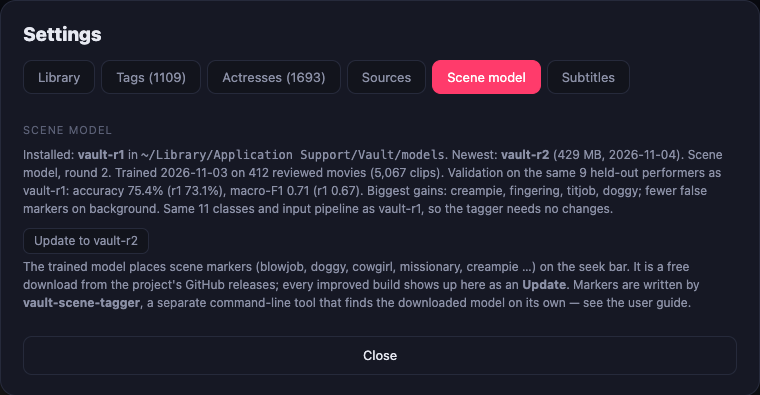
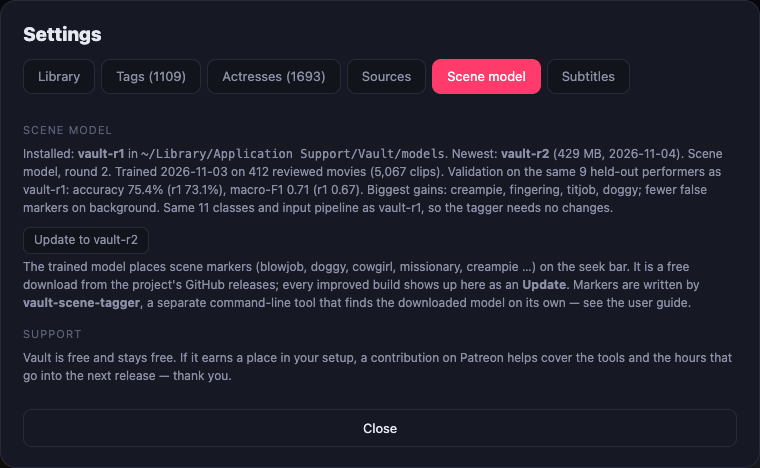
1.8.2: the Patreon link is back
A voluntary Patreon link for anyone who wants to contribute: Settings → Scene
model, the README, the user guide and the website. Vault stays free.

diff --git a/docs/index.html b/docs/index.html
@@ -204,7 +204,7 @@ footer small{flex-basis:100%;font-size:13px;max-width:80ch}
     <ul>
       <li><a href="#features">Features</a></li>
       <li><a href="#model">Scene model</a></li>
-      <li><a href="#free">Free</a></li>
+      <li><a href="#free">Support</a></li>
       <li><a href="#install">Install</a></li>
       <li class="keep"><a class="btn small" href="https://github.com/fc2vault/vault">GitHub</a></li>
     </ul>
@@ -214,12 +214,12 @@ footer small{flex-basis:100%;font-size:13px;max-width:80ch}
 <header class="hero" id="top">
   <div class="wrap hero-grid">
     <div class="hero-copy">
-      <p class="eyebrow">Free &amp; self‑hosted · v1.8.1 · macOS · Windows · Linux</p>
+      <p class="eyebrow">Free &amp; self‑hosted · v1.8.2 · macOS · Windows · Linux</p>
       <h1>Your library,<br>finally <span>browsable.</span></h1>
       <p class="lede">Vault turns a folder of FC2 / JAV movies into a fast, private web app: a poster wall, a streaming player with scene markers on the seek bar and English subtitles made on your own computer, and an actress catalog. <strong>One Python file. No cloud, no accounts, no telemetry. Free, the whole thing.</strong></p>
       <div class="cta">
         <a class="btn primary" href="https://github.com/fc2vault/vault/releases/latest">Download Vault — free</a>
-        <a class="btn" href="https://github.com/fc2vault/vault">Source on GitHub</a>
+        <a class="btn" href="#free">Support the project</a>
         <span class="note">No limit, no key, no sign‑up. The scene model is a free download inside the app.</span>
       </div>
       <div class="strip">
@@ -367,11 +367,11 @@ footer small{flex-basis:100%;font-size:13px;max-width:80ch}
 <section id="free">
   <div class="wrap">
     <div class="sec-head">
-      <p class="eyebrow">Free</p>
-      <h2>Everything is free.</h2>
-      <p class="lede">Vault is a hobby project, developed in the open and given away whole: the app, every source, the catalog, the scene model and the subtitles. There is no paid tier and nothing held back.</p>
+      <p class="eyebrow">Free, and supported by you</p>
+      <h2>Everything is free.<br>Contributions keep it moving.</h2>
+      <p class="lede">Vault is a hobby project, developed in the open and given away whole: the app, every source, the catalog, the scene model and the subtitles. There is no paid tier and nothing held back. If it earns a place in your setup, a contribution helps cover the tools, the GPU hours and the work that go into the next release.</p>
     </div>
-    <div class="support" style="grid-template-columns:1fr">
+    <div class="support">
       <div class="card-free">
         <div><p class="eyebrow">Vault</p><p class="price">$0<small>for everyone, forever</small></p></div>
         <ul>
@@ -387,6 +387,15 @@ footer small{flex-basis:100%;font-size:13px;max-width:80ch}
         </ul>
         <div><a class="btn" href="https://github.com/fc2vault/vault/releases/latest">Download on GitHub</a></div>
         <p class="fine">No sign‑up, no key. The source is on GitHub; the terms are in LICENSE.md.</p>
+      </div>
+      <div class="card-sup">
+        <div><p class="eyebrow">Say thanks</p><p class="price">Patreon<small>any amount, cancel any time</small></p></div>
+        <p><strong>Thank you</strong> to everyone who contributes. Vault keeps being developed either way, but your support is what pays for the parts that are not free to make: the GPU time that trains each model round, the tooling, the metadata sources, and the evenings that go into every release.</p>
+        <div class="sup">
+          <a class="btn primary" href="https://www.patreon.com/FC2vault" rel="noopener"><svg viewBox="0 0 24 24" aria-hidden="true"><path d="M15.4 2.5a6.2 6.2 0 1 1 0 12.4 6.2 6.2 0 0 1 0-12.4zM2.5 2.5h3.1v19H2.5z"/></svg>Support on Patreon</a>
+          <a class="btn" href="https://github.com/fc2vault/vault/issues">Request a feature</a>
+        </div>
+        <p class="fine">Nothing on Patreon is required to use Vault, the scene model or the subtitles.</p>
       </div>
     </div>
   </div>
@@ -476,6 +485,7 @@ python3 serve.py --library "/srv/movies"</pre></div></div>
     </div>
     <div class="faq">
       <details><summary>Is it really all free?</summary><p>Yes. The app, every metadata source, the bundled catalog and the scene model, with no movie limit and no key. The terms are in <code>LICENSE.md</code>: use it, share it, don't sell it.</p></details>
+      <details><summary>What do I get for supporting on Patreon?</summary><p>The same Vault as everyone else, and my thanks. Contributions pay for the GPU time that trains each model round, the tooling and the hours behind every release. Nothing is held back from people who don't contribute.</p></details>
       <details><summary>How does the scene model get onto my machine?</summary><p>Settings → Scene model shows the newest build and a Download button. Vault fetches it from the project's GitHub releases into a per‑user folder, and vault‑scene‑tagger finds it there on its own. When a new round ships, the same tab offers the update.</p></details>
       <details><summary>Does the scene model need a GPU?</summary><p>Tagging runs on Apple Silicon (MPS) at roughly 3× realtime, or much faster on any NVIDIA GPU. Viewing markers in the player needs nothing special. The model runs entirely on your machine.</p></details>
       <details><summary>Which sources does it use for metadata?</summary><p>fc2db.net, 123av and ffjav work out of the box. fc2ppv‑db, which supplies the cast and faces, sits behind a Cloudflare check, so it needs a pasted browser session or a FlareSolverr instance on your LAN.</p></details>
@@ -493,6 +503,7 @@ python3 serve.py --library "/srv/movies"</pre></div></div>
       <li><a href="https://github.com/fc2vault/vault/blob/main/README.md">README</a></li>
       <li><a href="https://github.com/fc2vault/vault/blob/main/CHANGELOG.md">Changelog</a></li>
       <li><a href="https://github.com/fc2vault/vault/issues">Issues</a></li>
+      <li><a href="https://www.patreon.com/FC2vault" rel="noopener">Patreon</a></li>
     </ul>
     <small>Vault runs on your machine and talks only to the metadata sources you enable. Screenshots show a real library with all imagery pixelated. Not affiliated with FC2, Inc. or any studio.</small>
   </div>

diff --git a/index.html b/index.html
@@ -1549,6 +1549,7 @@ function pollScanProgress(){
   }).catch(()=>{});
 }
 /* ---------------- settings ---------------- */
+const SUPPORT_URL="https://www.patreon.com/FC2vault";
 let SET=null, SETTAB="library";
 // Vault is freeware; supporters cover the tools and the work. Shown in Settings → Scene model.
 function post2(url,body,cb){fetch(url,{method:"POST",headers:{"Content-Type":"application/json"},body:JSON.stringify(body||{})}).then(r=>r.json()).then(cb).catch(()=>toast("Request failed"));}
@@ -1698,7 +1699,9 @@ function renderSetModel(pane){
     <div class="setsec">Scene model</div>
     <div class="setnote" id="mdlNote">Checking…</div>
     <div style="display:flex;gap:8px;align-items:center"><button class="setbtn" id="mdlGet" disabled>Download</button><span class="setnote" id="mdlProg" style="margin:0"></span></div>
-    <div class="setnote">The trained model places scene markers (blowjob, doggy, cowgirl, missionary, creampie …) on the seek bar. It is a free download from the project's GitHub releases; every improved build shows up here as an <b>Update</b>. Markers are written by <b>vault-scene-tagger</b>, a separate command-line tool that finds the downloaded model on its own — see the user guide.</div>`;
+    <div class="setnote">The trained model places scene markers (blowjob, doggy, cowgirl, missionary, creampie …) on the seek bar. It is a free download from the project's GitHub releases; every improved build shows up here as an <b>Update</b>. Markers are written by <b>vault-scene-tagger</b>, a separate command-line tool that finds the downloaded model on its own — see the user guide.</div>
+    <div class="setsec">Support</div>
+    <div class="setnote">Vault is free and stays free. If it earns a place in your setup, a contribution on <a href="${esc(SUPPORT_URL)}" target="_blank" rel="noopener">Patreon</a> helps cover the tools and the hours that go into the next release — thank you.</div>`;
   renderModel();
 }
 // Settings → Scene model: installed vs. newest, one button, progress while it runs.

diff --git a/serve.py b/serve.py
@@ -71,7 +71,7 @@ import vault_service
 # Writable data dir. Dev / portable-folder use keeps everything next to serve.py (HERE).
 # A macOS .app (read-only in /Applications) sets VAULT_DATA to a user folder
 # (~/Library/Application Support/Vault) so cache/config/DB land somewhere writable.
-VAULT_VERSION = "1.8.1"
+VAULT_VERSION = "1.8.2"
 # Training mode (editing scene markers to make training data) is the author's own workflow, not part
 # of the public package: make_release.sh --public sets this to False, which hides the switch and
 # refuses marker/label edits. Viewing markers is unaffected.

diff --git a/README.md b/README.md
@@ -77,6 +77,10 @@ and press **Download**. Vault unpacks it into a per-user folder that
 improved build shows up in the same tab as an **Update**. See
 [Generating markers](#generating-markers-with-vault-scene-tagger).
 
+**Support:** Vault is developed in the open and stays free. If it earns a place in your setup, a
+contribution on [Patreon](https://www.patreon.com/FC2vault) helps cover the tools and the hours
+that go into the next release. Nothing is required, and nothing is held back. Thank you.
+
 ## Requirements
 
 - **Python 3.8+** (standard library only — no `pip install`)

diff --git a/docs/USER_GUIDE.md b/docs/USER_GUIDE.md
@@ -242,6 +242,8 @@ Open **Settings** from the **☰ Tools** menu. Six tabs:
   [vault-scene-tagger](https://github.com/fc2vault/vault-scene-tagger) finds it by itself. The
   tagger is a separate command‑line tool; the README's *Generating markers* section has the three
   commands.
+- **Support:** Vault is free. The tab links to the project's Patreon for anyone who wants to help
+  cover the tools and the work behind the next release — voluntary, nothing is held back.
 
 ### Library & cache
 

diff --git a/CHANGELOG.md b/CHANGELOG.md
@@ -1,5 +1,10 @@
 # Changelog
 
+## 1.8.2
+
+- **The Patreon link is back**, for anyone who wants to contribute: Settings → Scene model, the
+  README and the website. Voluntary — Vault stays free, with nothing held back.
+
 ## 1.8.1
 
 - **Scene markers are view-only.** The marker editor is not part of the public package; markers
